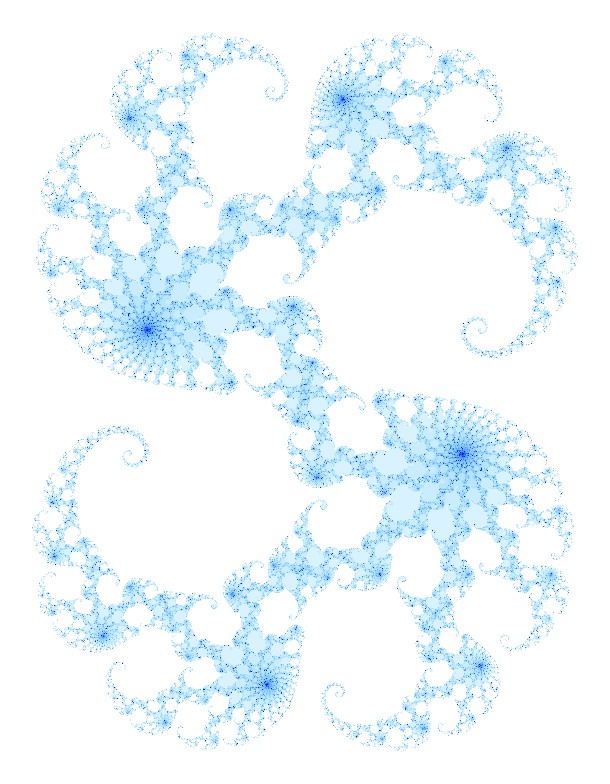
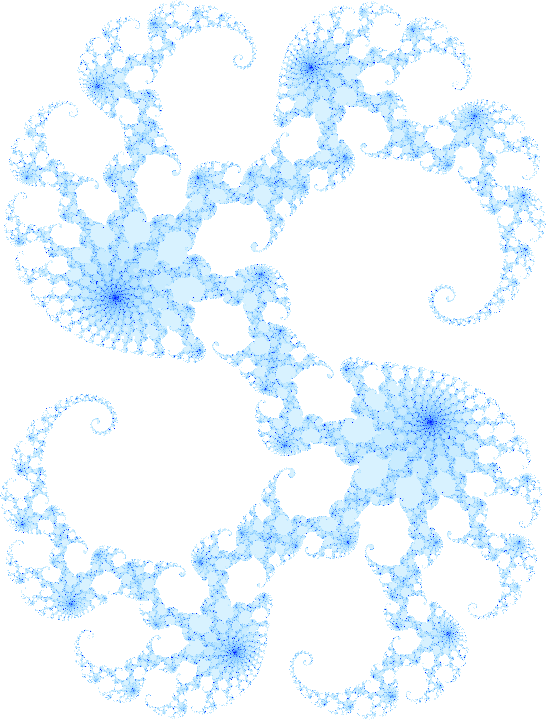
crop fractal appropriately

diff --git a/app/page.tsx b/app/page.tsx
@@ -5,72 +5,80 @@
 import Image from "next/image";
 import Link from "next/link";
 
-import HomeExperience from "./home-experience";
+import HomeFractal from "./home-fractal";
 import styles from "./home.module.css";
 
 export default function Home() {
   return (
-    <HomeExperience>
-      <div className={styles.introductionCopy}>
-        <h1>Hi, I&apos;m Keith!</h1>
-
-        <p>I have a lot of interests.</p>
-        <p>Some of them are on this site. Check it out!</p>
-
-        <div className={styles.iconLinks}>
-          <a
-            href="https://www.linkedin.com/in/keith-openshaw/"
-            target="_blank"
-            rel="noopener noreferrer"
-            aria-label="Keith Openshaw on LinkedIn"
-            className={styles.iconLink}
-          >
-            <Image src="/linkedin.png" alt="" width={30} height={30} />
-          </a>
-          <a
-            href="https://github.com/kdopenshaw"
-            target="_blank"
-            rel="noopener noreferrer"
-            aria-label="Keith Openshaw on GitHub"
-            className={styles.iconLink}
-          >
-            <svg viewBox="0 0 16 16" width="30" height="30" aria-hidden="true">
-              <path
-                fill="currentColor"
-                d="M8 0C3.58 0 0 3.58 0 8c0 3.54 2.29 6.53 5.47 7.59.4.07.55-.17.55-.38 0-.19-.01-.82-.01-1.49-2.01.37-2.53-.49-2.69-.94-.09-.23-.48-.94-.82-1.13-.28-.15-.68-.52-.01-.53.63-.01 1.08.58 1.23.82.72 1.21 1.87.87 2.33.66.07-.52.28-.87.51-1.07-1.78-.2-3.64-.89-3.64-3.95 0-.87.31-1.59.82-2.15-.08-.2-.36-1.02.08-2.12 0 0 .67-.21 2.2.82.64-.18 1.32-.27 2-.27.68 0 1.36.09 2 .27 1.53-1.04 2.2-.82 2.2-.82.44 1.1.16 1.92.08 2.12.51.56.82 1.27.82 2.15 0 3.07-1.87 3.75-3.65 3.95.29.25.54.73.54 1.48 0 1.07-.01 1.93-.01 2.2 0 .21.15.46.55.38A8.013 8.013 0 0 0 16 8c0-4.42-3.58-8-8-8z"
-              />
-            </svg>
-          </a>
+    <div className={styles.homeExperience}>
+      <section className={styles.fractalOpening} aria-labelledby="home-heading">
+        <h1 className={styles.homeTitle} id="home-title">
+          Keith Openshaw
+        </h1>
+        <h2 className={styles.homeLead} id="home-heading">
+          A home for things I&apos;m building and thinking about.
+        </h2>
+        <div className={styles.fractalMedia} aria-hidden="true">
+          <HomeFractal />
         </div>
-      </div>
+      </section>
 
-      <nav className={styles.homeDirectory} aria-label="Explore the site">
-        <ul>
-          <li>
-            <h3><Link href="/content">Content</Link></h3>
-          </li>
-          <li>
-            <h3><Link href="/projects">Projects</Link></h3>
-          </li>
-          <li>
-            <h3><Link href="/blacksmithing">Blacksmithing</Link></h3>
-          </li>
-        </ul>
-      </nav>
+      <section className={styles.introduction} id="introduction">
+        <div className={styles.introductionContent}>
+          <nav className={styles.homeDirectory} aria-label="Explore the site">
+            <ul>
+              <li>
+                <h3><Link href="/content">Content</Link></h3>
+              </li>
+              <li>
+                <h3><Link href="/projects">Projects</Link></h3>
+              </li>
+              <li>
+                <h3><Link href="/blacksmithing">Blacksmithing</Link></h3>
+              </li>
+            </ul>
+          </nav>
 
-      <footer className={styles.contact}>
-        Contact me:
-        <br />
-        <a href="mailto:kopensha@gmail.com">kopensha@gmail.com</a>
-        <br />
-        <a
-          href="https://www.linkedin.com/in/keith-openshaw/"
-          target="_blank"
-          rel="noopener noreferrer"
-        >
-          linkedin
-        </a>
-      </footer>
-    </HomeExperience>
+          <footer className={styles.contact}>
+            <div className={styles.iconLinks}>
+              <a
+                href="https://www.linkedin.com/in/keith-openshaw/"
+                target="_blank"
+                rel="noopener noreferrer"
+                aria-label="Keith Openshaw on LinkedIn"
+                className={styles.iconLink}
+              >
+                <Image src="/linkedin.png" alt="" width={30} height={30} />
+              </a>
+              <a
+                href="https://github.com/kdopenshaw"
+                target="_blank"
+                rel="noopener noreferrer"
+                aria-label="Keith Openshaw on GitHub"
+                className={styles.iconLink}
+              >
+                <svg viewBox="0 0 16 16" width="30" height="30" aria-hidden="true">
+                  <path
+                    fill="currentColor"
+                    d="M8 0C3.58 0 0 3.58 0 8c0 3.54 2.29 6.53 5.47 7.59.4.07.55-.17.55-.38 0-.19-.01-.82-.01-1.49-2.01.37-2.53-.49-2.69-.94-.09-.23-.48-.94-.82-1.13-.28-.15-.68-.52-.01-.53.63-.01 1.08.58 1.23.82.72 1.21 1.87.87 2.33.66.07-.52.28-.87.51-1.07-1.78-.2-3.64-.89-3.64-3.95 0-.87.31-1.59.82-2.15-.08-.2-.36-1.02.08-2.12 0 0 .67-.21 2.2.82.64-.18 1.32-.27 2-.27.68 0 1.36.09 2 .27 1.53-1.04 2.2-.82 2.2-.82.44 1.1.16 1.92.08 2.12.51.56.82 1.27.82 2.15 0 3.07-1.87 3.75-3.65 3.95.29.25.54.73.54 1.48 0 1.07-.01 1.93-.01 2.2 0 .21.15.46.55.38A8.013 8.013 0 0 0 16 8c0-4.42-3.58-8-8-8z"
+                  />
+                </svg>
+              </a>
+            </div>
+            Contact me:
+            <br />
+            <a href="mailto:kopensha@gmail.com">kopensha@gmail.com</a>
+            <br />
+            <a
+              href="https://www.linkedin.com/in/keith-openshaw/"
+              target="_blank"
+              rel="noopener noreferrer"
+            >
+              linkedin
+            </a>
+          </footer>
+        </div>
+      </section>
+    </div>
   );
 }

diff --git a/app/home-fractal.tsx b/app/home-fractal.tsx
@@ -15,12 +15,14 @@ const FRACTALS = {
     still: "/fractals/julia-growth-dark-last.png",
     width: 1000,
     height: 1000,
+    crop: { x: 227, y: 140, width: 546, height: 720 },
   },
   light: {
     gif: "/fractals/julia_0.2841_0.01_20260921-154313_growth.gif",
     still: "/fractals/julia_0.2841_0.01_20260921-154313_growth_last.png",
     width: 610,
     height: 784,
+    crop: { x: 32, y: 32, width: 546, height: 720 },
   },
 };
 
@@ -277,13 +279,14 @@ export default function HomeFractal() {
     if (!canvas || !context) return;
 
     const image = FRACTALS[theme];
-    if (heldThemeRef.current === theme && canvas.width === image.width && canvas.height === image.height) {
+    const { crop } = image;
+    if (heldThemeRef.current === theme && canvas.width === crop.width && canvas.height === crop.height) {
       setPaintedTheme(theme);
       return;
     }
     // Assigning the same canvas size clears its bitmap, so only write a change.
-    if (canvas.width !== image.width) canvas.width = image.width;
-    if (canvas.height !== image.height) canvas.height = image.height;
+    if (canvas.width !== crop.width) canvas.width = crop.width;
+    if (canvas.height !== crop.height) canvas.height = crop.height;
     const controller = new AbortController();
     let active = true;
     let timeoutId = 0;
@@ -294,18 +297,18 @@ export default function HomeFractal() {
       timeoutId = window.setTimeout(resolve, ms);
     });
 
-    async function play(surface: HTMLCanvasElement, drawing: CanvasRenderingContext2D) {
+    async function play(drawing: CanvasRenderingContext2D) {
       const response = await fetch(image.gif, { signal: controller.signal });
       if (!response.ok) throw new Error("Unable to load the fractal animation");
       const bytes = await response.arrayBuffer();
       if (!active) return;
 
       const animation = readGif(bytes);
-      if (!animation || animation.width !== surface.width || animation.height !== surface.height) {
+      if (!animation || animation.width !== image.width || animation.height !== image.height) {
         throw new Error("The fractal animation did not decode completely");
       }
 
-      const bitmap = drawing.createImageData(surface.width, surface.height);
+      const bitmap = drawing.createImageData(animation.width, animation.height);
       let elapsed = 0;
       let origin = 0;
       for (let index = 0; index < animation.frames.length; index += 1) {
@@ -313,8 +316,8 @@ export default function HomeFractal() {
         const frame = animation.frames[index];
         const indexes = lzwDecode(frame.minCodeSize, frame.compressed, frame.width * frame.height);
         if (!indexes) throw new Error("The fractal animation did not decode completely");
-        paintFrame(bitmap.data, surface.width, frame, indexes);
-        drawing.putImageData(bitmap, 0, 0);
+        paintFrame(bitmap.data, animation.width, frame, indexes);
+        drawing.putImageData(bitmap, -crop.x, -crop.y);
         if (index === 0) {
           origin = performance.now();
           setPaintedTheme(theme);
@@ -330,7 +333,7 @@ export default function HomeFractal() {
       }
     }
 
-    play(canvas, context).catch(() => {
+    play(context).catch(() => {
       if (!active) return;
       setUseStill(true);
     });
@@ -353,16 +356,16 @@ export default function HomeFractal() {
           <img
             src={image.still}
             alt=""
-            width={image.width}
-            height={image.height}
-            className={`${theme === "dark" ? styles.darkFractalImage : ""} ${styles.fractalImageReady}`}
+            width={image.crop.width}
+            height={image.crop.height}
+            className={styles.fractalImageReady}
           />
         )}
         {theme && !showStill && (
           <canvas
             ref={canvasRef}
             aria-hidden="true"
-            className={`${theme === "dark" ? styles.darkFractalImage : ""} ${paintedTheme === theme ? styles.fractalImageReady : ""}`}
+            className={paintedTheme === theme ? styles.fractalImageReady : ""}
           />
         )}
       </div>

diff --git a/app/home.module.css b/app/home.module.css
@@ -7,6 +7,7 @@
   display: grid;
   width: 100%;
   min-height: 0;
+  margin-top: var(--spacing-xl);
   place-items: center;
   overflow: hidden;
   pointer-events: none;
@@ -15,7 +16,19 @@
 .fractalOpening {
   display: grid;
   justify-items: center;
-  padding: calc(2.25rem + var(--spacing-lg) + var(--spacing-sm)) var(--spacing-lg) 0;
+  padding: calc(2.25rem + var(--spacing-xl) + var(--spacing-lg)) var(--spacing-lg) 0;
+}
+
+.homeTitle {
+  margin: 0;
+  text-align: center;
+  font-family: -var(--font-code);
+}
+
+.homeLead {
+  width: min(100%, 36rem);
+  margin: 0 auto;
+  text-align: left;
 }
 
 .introduction {
@@ -23,7 +36,7 @@
   align-items: stretch;
   justify-items: center;
   min-height: 100svh;
-  padding: var(--spacing-lg) var(--spacing-lg) 0;
+  padding: 0 var(--spacing-lg);
   background: var(--color-background);
 }
 
@@ -31,11 +44,6 @@
   display: flex;
   flex-direction: column;
   width: min(100%, 60rem);
-}
-
-.introductionCopy {
-  width: min(100%, 36rem);
-  margin-inline: auto;
 }
 
 .homeDirectory {
@@ -88,7 +96,7 @@
   display: flex;
   align-items: center;
   gap: var(--spacing-xs);
-  margin-top: var(--spacing-md);
+  margin-bottom: var(--spacing-xs);
 }
 
 .iconLink {
@@ -112,8 +120,8 @@
 .fractalClip {
   display: flex;
   overflow: hidden;
-  width: min(72vw, 420px, max(0px, calc((100svh - 23rem) * 610 / 660)));
-  aspect-ratio: 610 / 660;
+  width: min(88vw, 760px, calc((100svh - 19rem) * 720 / 546));
+  aspect-ratio: 720 / 546;
   align-items: center;
   justify-content: center;
 }
@@ -121,11 +129,12 @@
 .fractal img,
 .fractal canvas {
   display: block;
-  width: 85%;
+  width: calc(100% * 546 / 720);
   max-width: none;
   height: auto;
   flex: 0 0 auto;
   visibility: hidden;
+  transform: rotate(90deg);
 }
 
 .fractal img.fractalImageReady,
@@ -133,22 +142,15 @@
   visibility: visible;
 }
 
-/* The dark file is 1000px wide around the same 546px Julia shape. */
-.fractal img.darkFractalImage,
-.fractal canvas.darkFractalImage {
-  width: 139.344%;
-}
-
 @media (max-width: 44rem) {
   .fractalOpening {
-    padding: calc(2.25rem + var(--spacing-lg) + var(--spacing-sm)) var(--spacing-md) 0;
+    padding: calc(2.25rem + var(--spacing-xl) + var(--spacing-lg)) var(--spacing-md) 0;
   }
 
   .introduction {
     padding-inline: var(--spacing-md);
   }
 
-  .introductionContent h1,
   .introductionContent p {
     margin-bottom: var(--spacing-xs);
   }
